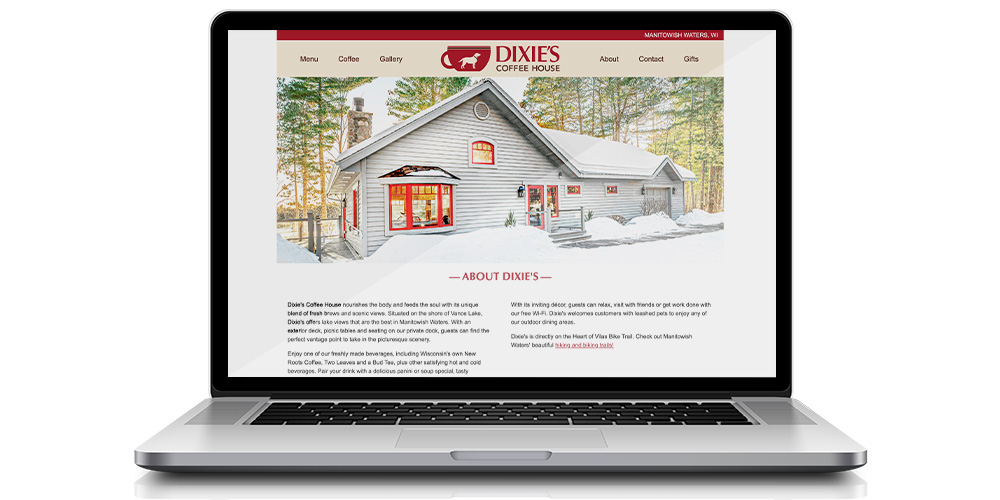
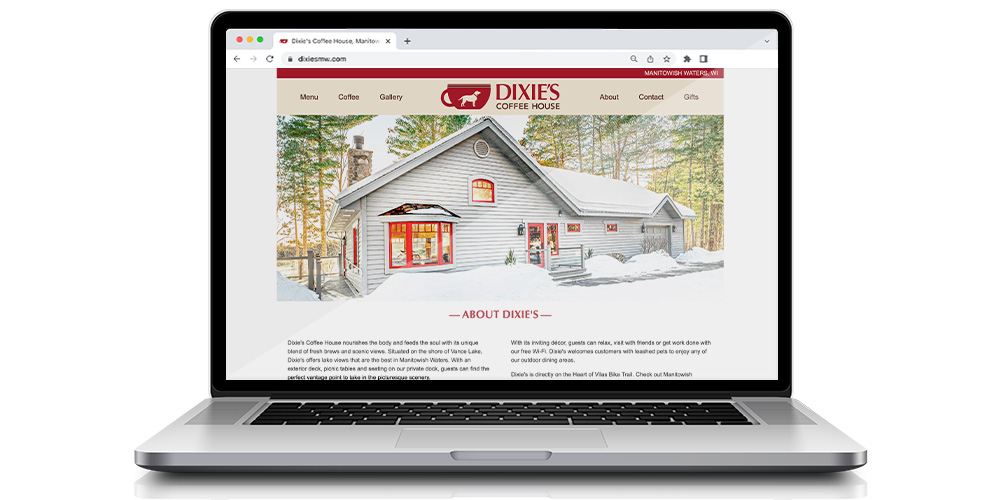
Text updates and new images

Changed region(s): [[0.217, 0.03, 0.775, 0.78]]

diff --git a/src/app/pages/p01/p01.component.html b/src/app/pages/p01/p01.component.html
@@ -9,7 +9,7 @@
         <section class="mainTemplate-content-wide">
             <h3 class="margin-m">Dixies Coffee House</h3>
             <a class="margin-sm link-secondary" href="https://www.dixiesmw.com/index.html" target="_blank">https://www.dixiesmw.com/index.html</a>
-            <p class="margin-sm opacity-1">October - November 2022</p>
+            <p class="margin-sm opacity-1">October - December 2022</p>
             <p class="margin-sm opacity-1">HTML - CSS - Javascript - Photoshop - Illustrator</p>
             <p class="margin-m">A website redesign of a popular coffee house, located in Manitowish Waters WI. Working with the Uline design team, I was the sole developer on this project. To complete this project, I utilized HTML, CSS, Javascript and the Adobe suite for image optimization/editing. This project challenged me to adhere to past CSS styling, browser testing, and tight time constraints.</p>
         </section>
@@ -19,28 +19,28 @@
                 <img  alt="Dixies Coffee House" src="/assets/images/dixies/dixies.jpg" class="mainTemplate-imageNoHvr content-wide-image margin-xl-bottom">
             </picture>
             <h3 class="margin-m">Brief</h3>
-            <p class="margin-sm">This project came in as a special project from Liz Uihlein, president of Uline. The brief was to redesign the Dixie's website in similar fashion to the website of Smokey's Supper Club, another Liz Uihlein entity in Manitowish Waters.</p>
+            <p class="margin-sm">This project came in as a special project from Liz Uihlein, president of Uline. The brief was to redesign the Dixie's website in a similar fashion to the website of Smokey's Supper Club, another Liz Uihlein entity in Manitowish Waters.</p>
         </section>
         <section class="mainTemplate-content-wide two-col">
             <picture>
                 <source srcset="/assets/images/dixies/dixies_mockup.webp" type="image/webp">
                 <img alt="Dixies mockup" src="/assets/images/dixies/dixies_mockup.jpg" class="mainTemplate-imageNoHvr content-wide-two_col-image margin-xl-bottom">
             </picture>
-            <p class="margin-sm flex-center">My role was to take the mock-ups from the design team and translate them to code. I was the sole developer on the project and was given one business week to tranlsate the concepts to the web. At this stage in the process, I focused on the current styling of Smokey's Supper Club and looked at where styling could be shared and where it must differ. This challenged me to adhere to past code to keep the sites maintainable in a similar format for the future.</p>
+            <p class="margin-sm flex-center">I was the sole developer on the project with the task to take the mock-ups from the design team and translate them to code. At this stage in the process, I focused on the current styling of Smokey's Supper Club and looked at where styling could be shared and where it must differ. This challenged me to adhere to past code to keep the sites maintainable in a similar format for the future.</p>
         </section>
         <section class="mainTemplate-content-wide">
             <video class="mainTemplate-imageNoHvr content-wide-image margin-xl-bottom" [muted]="'muted'" playsinline autobuffer autoplay muted loop>
                 <source src="assets/images/dixies/dixies_vid.mp4">
             </video>
             <h3 class="margin-m">Development</h3>
-            <p class="margin-sm">At this stage in the process I began to update the code. I began by duplicating the code from Smokey's and familiarizing myself with the styling. This allowed me to save time and helped me focus on the aspects that would be changing. It was a challenge to siphon through the previous code and remove the non-applicable code to prevent code bloat, while competing with a tight-deadline. It was important to me that the code stayed DRY and there wasn't any repeat or non-usable code.</p>
+            <p class="margin-sm">At this stage in the process, I began to update the code. I began by duplicating the code from Smokey's and familiarizing myself with the styling. This allowed me to save time and helped me focus on the aspects that would be changing. It was a challenge to siphon through the previous code and remove the non-applicable code to prevent code bloat while competing with a tight deadline. I found that using "Coverage" in the Chrome Dev Tools allowed me to better find unused CSS code. It was important to me that the code stayed DRY and there wasn't any repeat or unusable code.</p>
         </section>
         <section class="mainTemplate-content-wide">
             <picture>
                 <source media="(max-width:750px)" srcset="/assets/images/dixies/dixies_lazyloading_mobile.jpg">
                 <img alt="Dixies lazy loading images" src="/assets/images/dixies/dixies_lazyloading.jpg" class="mainTemplate-imageNoHvr content-wide-two_col-image margin-xl-bottom">
             </picture>
-            <p class="margin-xl-bottom flex-center">It was important that the site also performed well. I used the progressive rendering technique of lazy loading images to ensure that the browser would only need to serve one image on load of the document. I used a set time out function to allow the homepage carousel to load the images before they are needed, the benefit being that the client won't have to download all the images when the site is first loaded.</p>
+            <p class="margin-xl-bottom flex-center">It was important that the site also performed well. I used the progressive rendering technique of lazy loading images to ensure that the browser would only need to serve one image on load of the document. I used a set time-out function to allow the homepage carousel to load the images before they are needed, the benefit being that the client won't have to download all the images when the site is first loaded.</p>
         </section>
         <section class="mainTemplate-content-wide two-col">
             <picture>
@@ -54,7 +54,7 @@
                 <source src="assets/images/dixies/dixies_vid2.mp4">
             </video>
             <h3 class="margin-m">Conclusion</h3>
-            <p class="margin-lg">As the sole developer on this project, this project challenged me to work at an intense speed while maintaining a strong attention to detail. I was pushed to priortize my time, work with previous code, and browser test.</p>
+            <p class="margin-lg">As the sole developer on this project, this project challenged me to maintain a high attention to detail while replicating the given concepts. I was pushed to priortize my time, work with previous code, implement progressive rendering, and utilize browser testing.</p>
             <a class="p-40 link-secondary" routerLink="/project02">Next Project</a>
         </section>
     </div>

diff --git a/src/app/pages/projects/projects.component.html b/src/app/pages/projects/projects.component.html
@@ -13,7 +13,7 @@
                     <img alt="Dixies Coffee House" src="/assets/images/projects/projects_dixies.jpg" routerLink="/project01" class="mainTemplate-image margin-xl-bottom">
                 </picture>
                 <h3 class="margin-m">Dixies Coffee House</h3>
-                <p class="margin-sm opacity-1">October - November 2022</p>
+                <p class="margin-sm opacity-1">October - December 2022</p>
                 <p class="margin-sm">A website redesign of a popular coffee house, located in Manitowish Waters WI. Working with the Uline design team, I was the sole developer on this project. To complete this project, I utilized HTML, CSS, Javascript and the Adobe suite for image optimization/editing. This project challenged me to adhere to past CSS styling, browser testing, and work through tight time constraints.</p>
                 <a class="margin-sm link-main" routerLink="/project01">See More<span>></span></a>
             </section>

diff --git a/src/app/pages/p02/p02.component.html b/src/app/pages/p02/p02.component.html
@@ -10,7 +10,7 @@
             <h3 class="margin-m">NASA Earth Image App</h3>
             <a class="margin-sm link-secondary" href="https://github.com/JamieHunstad/nasaApp" target="_blank">https://github.com/JamieHunstad/nasaApp</a>
             <p class="margin-sm opacity-1">September 2022 - October 2022</p>
-            <p class="margin-sm opacity-1">HTML - CSS - Javascript - Angular - Illustrator</p>
+            <p class="margin-sm opacity-1">HTML - CSS - TypeScript - Angular - Illustrator</p>
             <p class="margin-m">A daily Earth imaging application utilizing the NASA “EPIC” API. The EPIC API provides information on the daily imagery collected by DSCOVR's Earth Polychromatic Imaging Camera (EPIC) instrument. This was a personal project I created in my spare time to challenge my skills in Angular!</p>
         </section>
         <section class="mainTemplate-content-wide">

diff --git a/src/app/pages/resume/resume.component.html b/src/app/pages/resume/resume.component.html
@@ -39,8 +39,9 @@
             <h3 class="margin-m">HTML</h3>
             <h3 class="margin-m">CSS</h3>
             <h3 class="margin-m">Javascript</h3>
+            <h3 class="margin-m">TypeScript</h3>
             <h3 class="margin-m">Bootstrap</h3>
-            <h3 class="margin-m">Sass</h3>
+            <h3 class="margin-m">AEM</h3>
             <h3 class="margin-m">Angular</h3>
             <h3 class="margin-m">Photoshop</h3>
             <h3 class="margin-m">Illustrator</h3>
